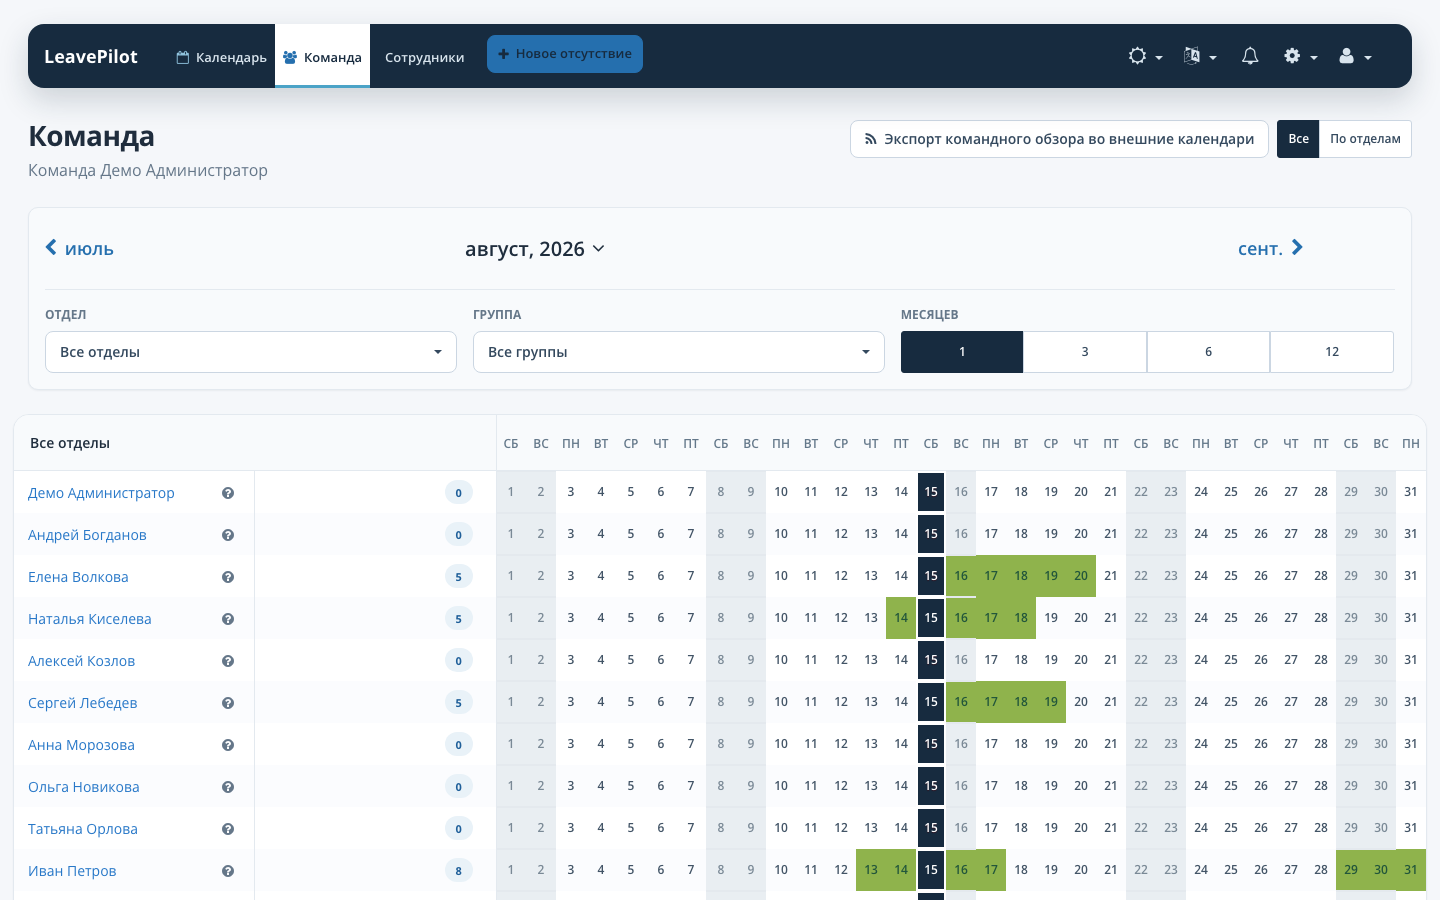
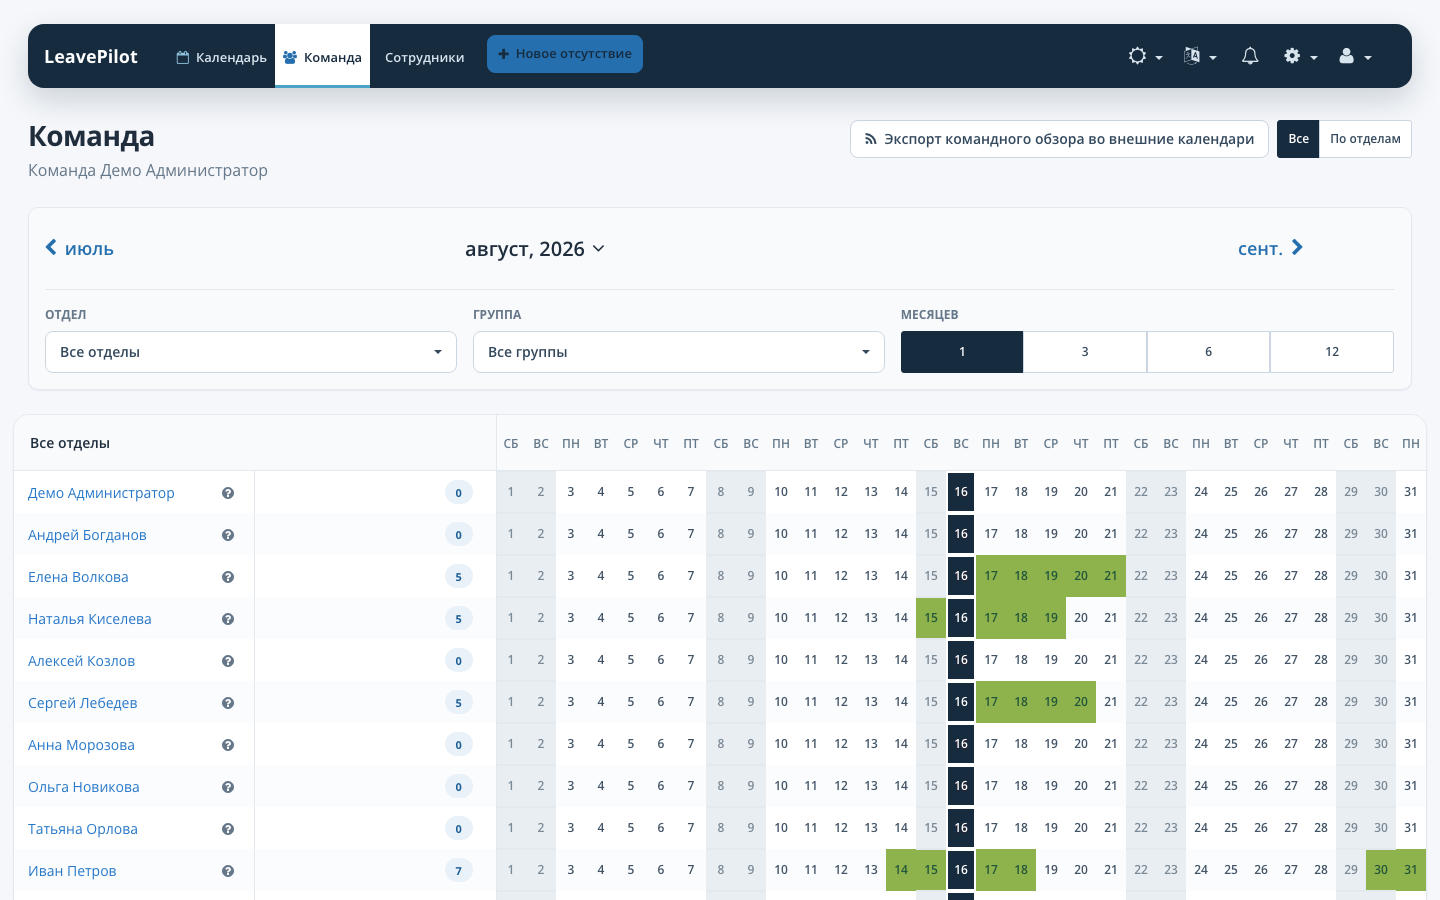
docs(release): 3.0.0 release walk - Q5 base-image breakdown, fresh screenshots, NOTICE repo links
LEGAL-11 Q5 closed: one-time syft breakdown of the digest the release
build pinned (node:22-bookworm-slim@sha256:d649c27d..., 288 packages,
no AGPL/SSPL; GPL/LGPL options are unmodified Debian system debs) is
recorded in docs/third-party-inventory.md; the full SPDX JSON ships as
a release asset.

README screenshots regenerated on the demo stand (calendar, requests)
and visually verified as the current RU interface.

NOTICE links fixed: repo renamed timeoff -> leavepilot.

diff --git a/docs/third-party-inventory.md b/docs/third-party-inventory.md
@@ -166,13 +166,47 @@ and its redistribution terms are those of the component projects (Node.js
 under the MIT license; Debian packages under their individual DFSG-free
 licenses).
 
+**One-time base-image breakdown (LEGAL-11 verdict tail, Q5 — closed
+2026-08-16).** The release build of 3.0.0 (Core CI job «Docker image build
+(runtime target)» on the release merge commit) resolved the floating tag to
+`node:22-bookworm-slim@sha256:d649c27dae7ba0137b3cef5dd75baa422c08dc3d9e3fc0c23dfb172dc3cc6436`
+(amd64 platform manifest; recorded in the build log line `#5 [base 1/2]
+FROM …@sha256:d649c…`). That exact digest — not the floating tag — was
+scanned with syft 1.51.0 (SPDX JSON output, 288 packages):
+
+- 90 ISC, 78 MIT, 16 NOASSERTION (debian copyright-file fragments syft
+  could not map to an SPDX id), 10 Apache-2.0, 8 BlueOak-1.0.0,
+  8 BSD-2-Clause, 6 BSD-3-Clause, 5 CC0-1.0 — plus ~60 Debian system
+  packages whose `debian/copyright` offers GPL-2.0/GPL-3.0/LGPL among
+  their licensing options (bash, coreutils, util-linux, apt, perl-base,
+  libpam, gpgv and similar base-system tooling).
+- **No AGPL and no SSPL package appears in the image** (checked: zero
+  matches over the full SPDX output).
+- The GPL/LGPL options belong to unmodified Debian 12 («bookworm») system
+  packages, redistributed as shipped by Debian (DFSG-free). Those licenses
+  bind the packages themselves, not the ELv2-licensed application layered
+  on top; mere aggregation in a container image is the standard
+  distribution mode of every official Debian-based image, and source
+  availability for the deb packages is satisfied by the Debian archive
+  (`deb.debian.org`, `sources.debian.org`).
+
+The full machine-readable SPDX JSON (2.9 MB) of this one-time scan is
+attached to the 3.0.0 GitHub Release as
+`base-image-node22-bookworm-slim-d649c27d.spdx.json`; the numbers above are
+the durable summary. With this single pass the accepted depth ceiling for
+the base image is closed for the 3.0.0 distribution: the ceiling statement
+below applies unchanged to future releases until a base-image bump makes a
+re-scan necessary.
+
 **Accepted depth ceiling (owner-confirmed, conscious simplification):** this
 inventory does not enumerate the individual deb packages inside the base
 image layers. A full package-level breakdown of the image is possible with
 syft (`https://github.com/anchore/syft`); that is the agreed upgrade path if
 deeper provenance is requested. Until then, the base-image statement above
 is the ceiling of what this document claims — it is an accepted limitation
-stated here deliberately, not an omission.
+stated here deliberately, not an omission. For the 3.0.0 release itself the
+ceiling was met once: the one-time breakdown above closes it for the digest
+this release actually shipped.
 
 ## Release-time companion
 
